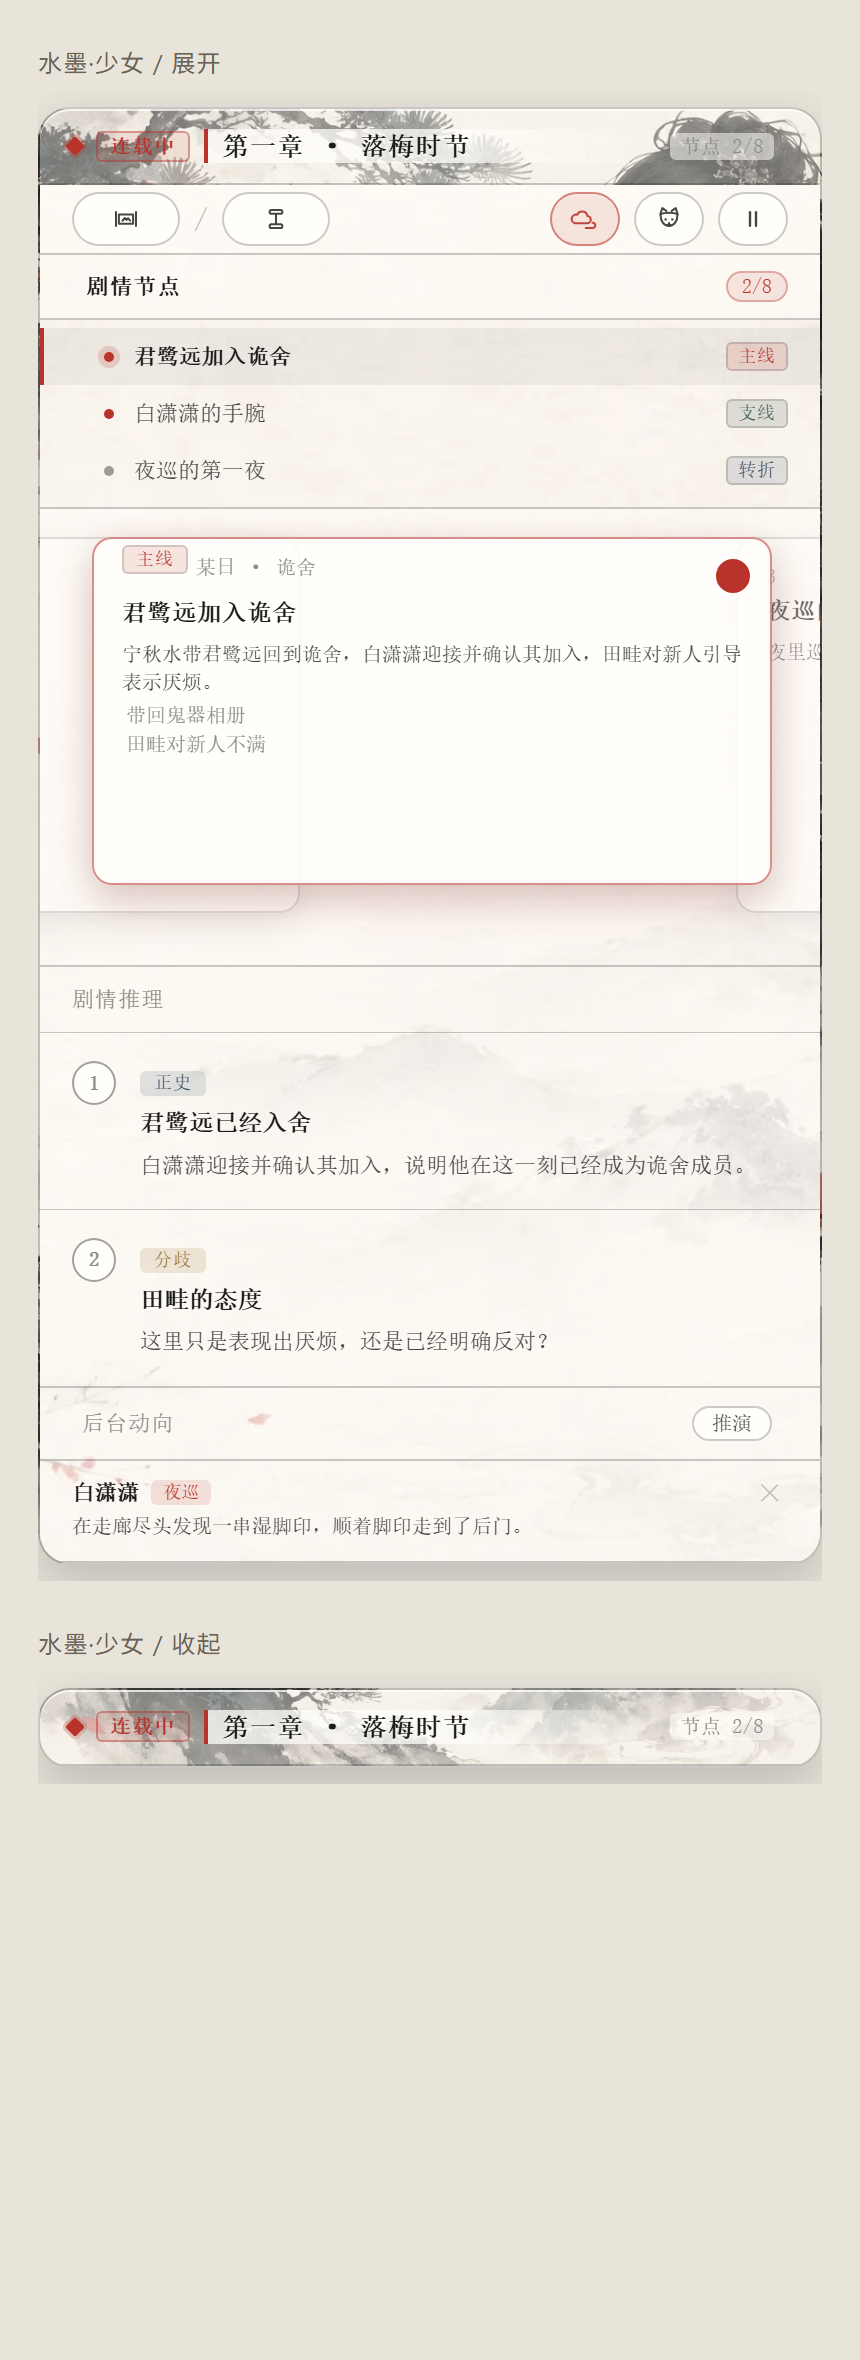
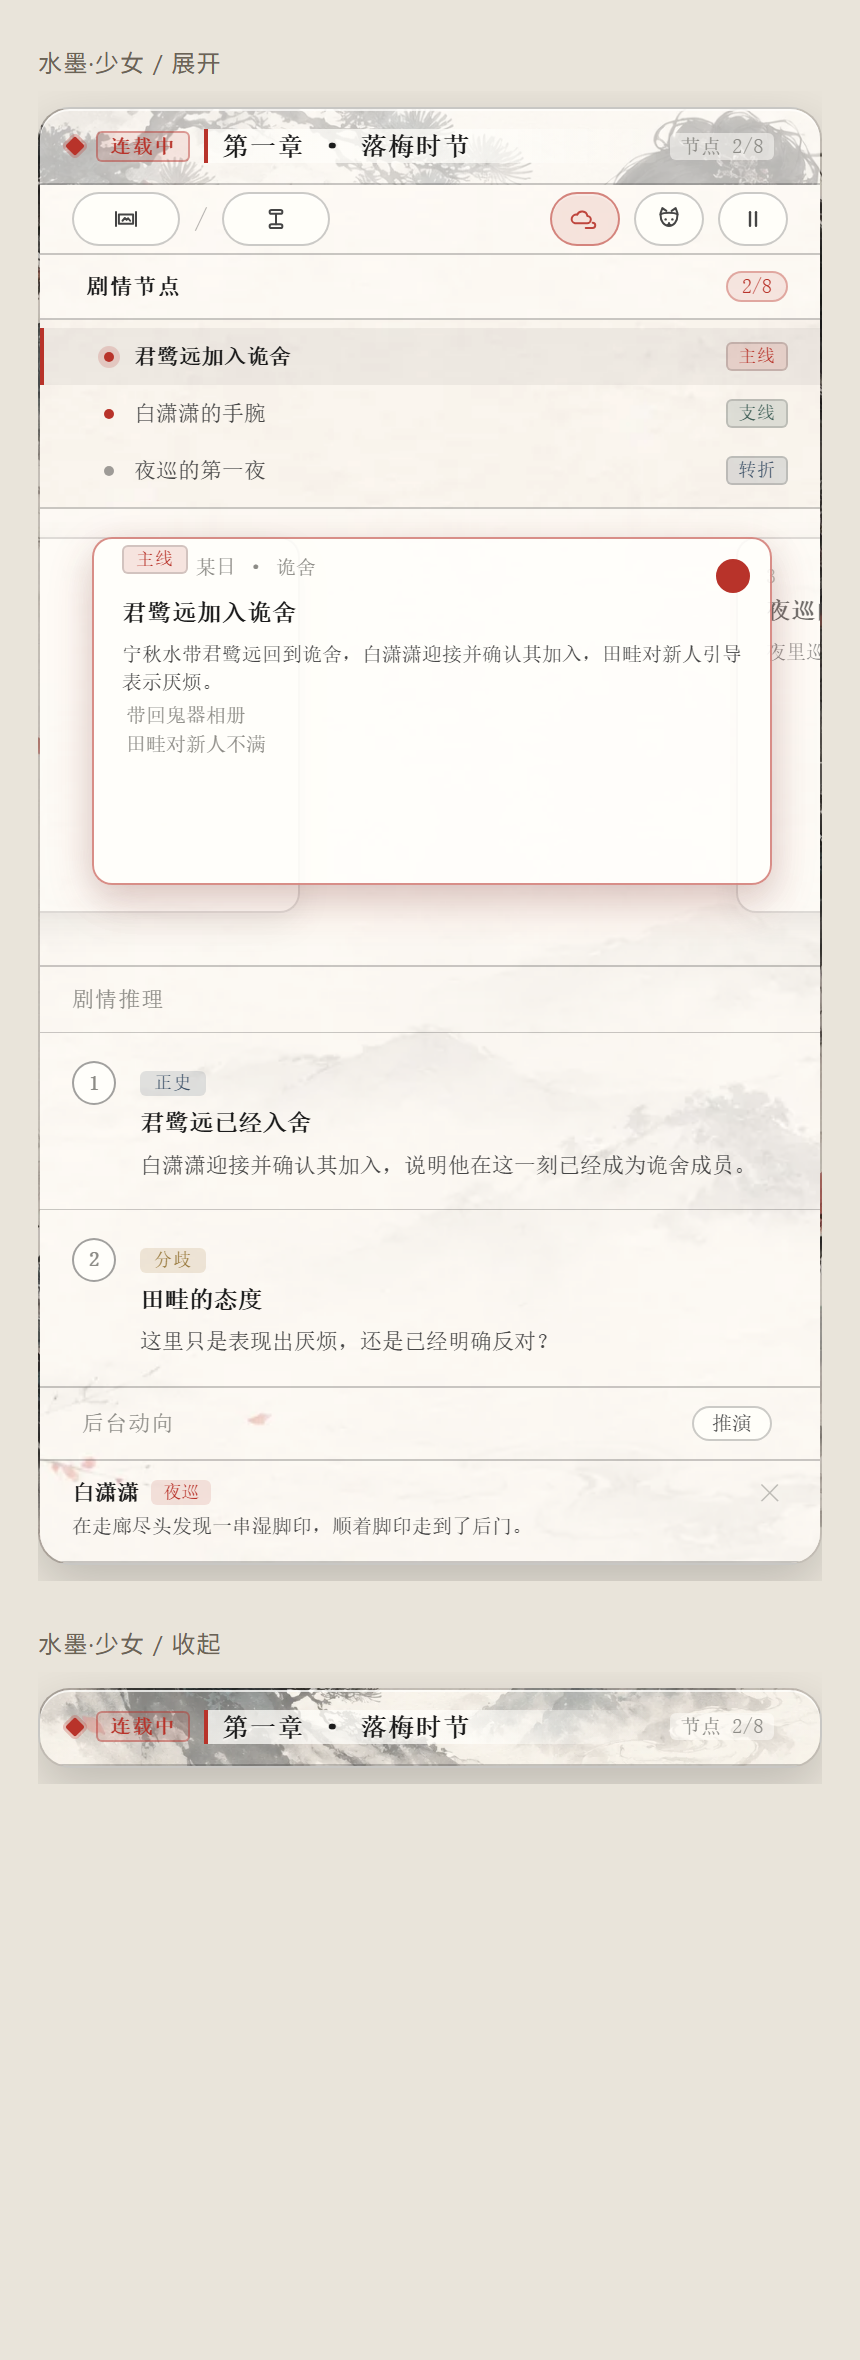
style: 展开态顶栏纸帘加厚，标题更清楚

Changed region(s): [[0.0302, 0.0309, 0.3023, 0.0928], [0.7256, 0.0309, 0.9674, 0.0928], [0.3326, 0.0309, 0.6047, 0.0928]]

diff --git a/style.css b/style.css
@@ -59,6 +59,11 @@ html body #ni-storybar.ni-tb-shell:has(> .ni-tb-body.open) {
     background-position: center, center center !important;
 }
 
+/* 展开时顶栏纸帘加厚，避免压在人物暗部上看不清 */
+html body #ni-storybar.ni-tb-shell:has(> .ni-tb-body.open) .ni-tb-bar {
+    background-color: rgba(var(--nb-paper-rgb), calc(var(--nb-paper-a) * 0.78)) !important;
+}
+
 /* ---------- 2. 四套配色（浅墨 / 夜墨 / 樱粉 / 素纸） ---------- */
 html body #ni-storybar.ni-tb-shell.nb-theme-ink {
     --nb-shell-bg: #f6f1e6;
